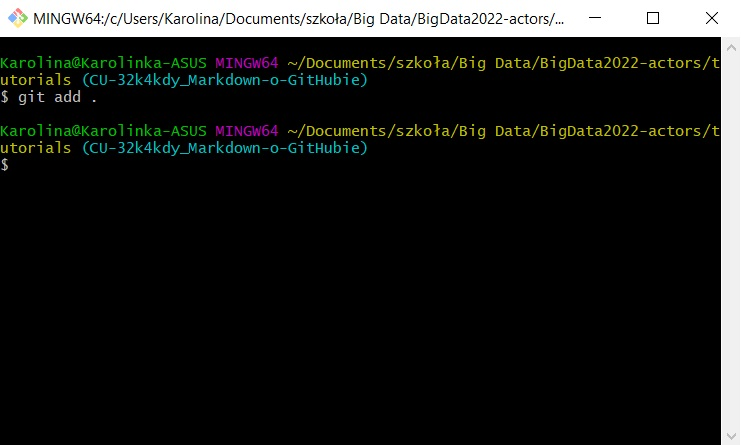
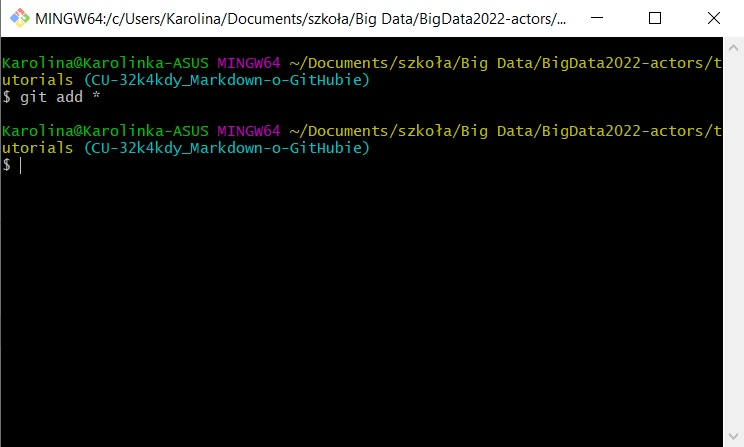
Dodanie tabelki z komendami gitowymi

diff --git a/tutorials/Jak korzystac z GitHub.md b/tutorials/Jak korzystac z GitHub.md
@@ -2,7 +2,7 @@
 
 ## Co to jest GitHub?
 
-GitHub to serwis pozwalający na przechowywanie projektów przy pełnej kontroli wersji każdego pliku. Przechowywane są na nim kody źródłowe plików, a wszystkie wprowadzone zmiany są zaznaczane w tym kodzie jako usunięcia lub dodania linii, a dodatkowo powinny być również opisane komentarzem autora zmian. Dzięki temu mamy pełną przejrzytość wprowadzanych zmian oraz w każdej chwili możemy wrócić do poprzedniej wersji pliku. Na jednym repozytorium może działać kilka osób, jednocześnie wprowadzając zmiany.
+GitHub to serwis pozwalający na przechowywanie projektów przy pełnej kontroli wersji każdego pliku. Przechowywane są na nim kody źródłowe plików, a wszystkie wprowadzone zmiany są zaznaczane w tym kodzie jako usunięcia lub dodania linii, a dodatkowo powinny być również opisane komentarzem autora zmian. Dzięki temu mamy pełną przejrzystość wprowadzanych zmian oraz w każdej chwili możemy wrócić do poprzedniej wersji pliku. Na jednym repozytorium może działać kilka osób, jednocześnie wprowadzając zmiany.
 
 ## Struktura projektu na GitHubie
 
@@ -18,86 +18,113 @@ Na początku każdego nowego zadania, którego wykonania się podjęliśmy, musi
 
 * Otwórz swoje zadanie na click upie,
 * Kliknij ikonkę GitHuba,
-![](images/clickup1.jpg)
+
+    ![](images/clickup1.jpg)
 * Kliknij "Create branch",
-![](images/clickup2.jpg)
+
+    ![](images/clickup2.jpg)
 * Wybierz repozytorium oraz branch, z którego ma wychodzić nowy branch (zazwyczaj będzie to main),
-![](images/clickup3.jpg)
+
+    ![](images/clickup3.jpg)
 * Kliknij "Create new branch".
-![](images/clickup4.jpg)
+
+    ![](images/clickup4.jpg)
 
 2. Stworzenie brancha przez GitHub:
 
 * Wejdź w zakładkę branches,
-![](images/tworzenie%20brancha1.jpg)
+
+    ![](images/tworzenie%20brancha1.jpg)
 * Kliknij "New branch:,
-![](images/tworzenie%20brancha2.jpg)
+    
+    ![](images/tworzenie%20brancha2.jpg)
 * Wpisz nazwę nowego brancha,
-![](images/tworzenie%20brancha3.jpg)
+
+    ![](images/tworzenie%20brancha3.jpg)
 * Kliknij "Create branch".
-![](images/tworzenie%20brancha4.jpg)
+
+    ![](images/tworzenie%20brancha4.jpg)
 
 Nowy branch został już utworzony na repozytorium i możesz teraz wprowadzać na nim swoje zmiany.
 
-Kolejnym zadaniem na GitHubie jest zapisanie dokonanych zmian, gdyż zmiany nie są zapisywane na bieżąco w trakie pracy, ale dopiero po zrobieniu ***commita***, czyli polecenia zapisania zmian na repozytorium. Tu znów mamy kilka opcji zapisywania zmian, w zależności od tego na czym pracujemy:
+Kolejnym zadaniem na GitHubie jest zapisanie dokonanych zmian, gdyż zmiany nie są zapisywane na bieżąco w trakie pracy, ale dopiero po zrobieniu ***commita***, czyli polecenia zapisania zmian na repozytorium zdalnym. Tu znów mamy kilka opcji zapisywania zmian, w zależności od tego na czym pracujemy:
 
 1. Zapisywanie zmian przez Google Colab:
 
 * Wejdź w zakładkę "Plik" i kliknij "Zapisz kopię w usłudze GitHub",
-![](images/Colab1.jpg)
+
+    ![](images/Colab1.jpg)
 * Wybierz repozytorium oraz gałąź (branch twojego zadania), na którym chcesz zapisać zmiany,
-![](images/Colab2.jpg)
+
+    ![](images/Colab2.jpg)
 * Wpisz króki komentarz na temat wprowadzonych zmian i kliknij "OK".
-![](images/Colab3.jpg)
+
+    ![](images/Colab3.jpg)
 
 2. Zapisywanie zmian przez terminal:
 
-    2.1 Aby móc wprowadzać zmiany przez terminal, najpierw musimy mieć lokalnie skopiowane repozytorium (robimy to tylko raz),
+    2.1. Aby móc wprowadzać zmiany przez terminal, najpierw musimy mieć lokalnie skopiowane repozytorium (robimy to tylko raz),
 * Utwórz plik, w którym chcesz mieć lokalnie skopiowane repozytorium (u mnie Big Data2),
 * Kliknij prawym przyciskiem myszy, a następnie "Git Bash Here" (do tego musisz mieć zainstalowanego Git Basha),
-![](images/terminal1.jpg)
+
+    ![](images/terminal1.jpg)
 * Poczekaj, aż terminal będzie gotowy do działania (pojawi się znaczek dolara),
-![](images/terminal2.jpg)
+
+    ![](images/terminal2.jpg)
 * W terminalu wpisz komendę (jeśli chcesz ją skopiować i wkleić, pamietaj, że skrót klawiszowy Ctrl + V nie działa w terminalu. Proponuję użyć prawego klawisza myszy, aby wkleić komendę) `git clone https://github.com/PiotrMaciejKowalski/BigData2022-actors.git` i kliknij Enter.
-![](images/terminal4.jpg)
 
-    2.2 Jeśli już masz sklonowane repozytorium lokalnie i chcesz wprowadzać kolejne zmiany, warto najpierw "odświeżyć" lokalne repozytorium, aby zmiany wprowadzane przez innych pojawiły się również u nas lokalnie:
-* W lokalizacji, gdzie masz lokalne repozytorium, kliknij prawym przyciskiem myszy, a następnie "Git BashHere", aby otworzyć terminal Git Bash,
-![](images/terminal5.jpg)
+    ![](images/terminal4.jpg)
+
+    2.2. Jeśli już masz sklonowane repozytorium lokalnie i chcesz wprowadzać kolejne zmiany, warto najpierw "odświeżyć" lokalne repozytorium, aby zmiany wprowadzane przez innych pojawiły się również u nas lokalnie:
+* W lokalizacji, gdzie masz lokalne repozytorium, kliknij prawym przyciskiem myszy, a następnie "Git Bash Here", aby otworzyć terminal Git Bash,
+
+    ![](images/terminal5.jpg)
 * Wpisz komendę `git pull`, aby ściągnąc aktualną wersję repozytorium i kliknij Enter.
-![](images/terminal6.jpg)
 
-    2.3 Aby wprowadzić zmiany w danym pliku, należy:
-* Otwórz terminal w lokalizacji, gdzie umieściłeś lokalne repozytorium (pokazane powyżej),
-* Wpisz komendę `git checkout nazwa_brancha_na_którym_chcemy_wprowadzić_zmiany` i kliknij Enter. Widzimy, że zmienia się wówczas lokalizacja, wktórej się znajdujemy:
-![](images/terminal7.jpg)
-* Wstaw plik, któy chcesz dołączyć, w odpowiedniej lokalizacji lub zmienić istniejący plik (ja dodałam plik "Jak korzystać z GitHub.md" do folderu tutorials),
-![](images/terminal8.jpg)
-* W terminalu wpisz komendę `git add nazwa_pliku_na_którym_chcemy_wprowadzić_zmiany` lub jeśli chcesz wprowadzić wszystkie wprowadzone zmiany w ramach twojego branch wpisz komendę `git add .` i kliknij Enter,
-* ![](images/terminal9.jpg)
-* Wpisz komendę `git commit -m "króki_tekst_opisujący_zapisywane_zmiany"` i kliknij Enter,
-![](images/terminal10.jpg)
+    ![](images/terminal6.jpg)
+
+    2.3. Aby wprowadzić zmiany w danym pliku, należy wykonać następujące kroki:
+* Otwórz terminal w lokalizacji, gdzie umieściłeś lokalne repozytorium (tak, jak pokazano powyżej),
+* Wpisz komendę `git checkout <nazwa_brancha_na_którym_chcemy_wprowadzić_zmiany>` i kliknij Enter. Widzimy, że zmienia się wówczas lokalizacja, w której się znajdujemy:
+
+    ![](images/terminal7.jpg)
+* Wstaw plik, który chcesz dołączyć, w odpowiedniej lokalizacji lub zmienić istniejący plik (ja dodałam plik "Jak korzystać z GitHub.md" do folderu tutorials),
+
+    ![](images/terminal8.jpg)
+* W terminalu wpisz komendę `git add <nazwa_pliku_na_którym_chcemy_wprowadzić_zmiany>` lub jeśli chcesz wprowadzić wszystkie wprowadzone zmiany w ramach twojego brancha, wpisz komendę `git add *` i kliknij Enter,
+
+    ![](images/terminal9.jpg)
+* Wpisz komendę `git commit -m "<króki_tekst_opisujący_zapisywane_zmiany>"` i kliknij Enter,
+
+    ![](images/terminal10.jpg)
 * Wpisz komendę `git push` i kliknij Enter,
-![](images/terminal11.jpg)
-* W celu sprawdzenia, czy coś jeszcze nie zostało zapisane na repozytorium, możemy wykonać komendę `git status`, która pokaże, które pliki czekają jeszcze na commit (u mnie widać dodane nowe 3 pliki).
-![](images/terminal12.jpg)
+
+    ![](images/terminal11.jpg)
+* W celu sprawdzenia, czy coś jeszcze nie zostało zapisane na repozytorium zdalnym, możemy wykonać komendę `git status`, która pokaże, które pliki czekają jeszcze na commit (u mnie widać dodane nowe 3 pliki).
+
+    ![](images/terminal12.jpg)
 
 3. Zapisanie zmian przez Visual Studio Code:
 
-* Sklonuj repozytorium lokalnie tak, jak zostalo to pokazane w punkcie 2.1,
-* Jeśli masz już sklonowane repozytorium, przed wprowadzeniem zmian wykonaj `git pull` tak, jak zostało to pokazane w punkcie 2.2,
-* Przejdź do swojego brancha za pomocą komendy `git checkout` tak, jak zostało to pokazane w punkcie 2.3,
+* Sklonuj repozytorium lokalnie tak, jak zostało to pokazane w punkcie 2.1.,
+* Jeśli masz już sklonowane repozytorium, przed wprowadzeniem zmian wykonaj `git pull` tak, jak zostało to pokazane w punkcie 2.2.,
+* Przejdź do swojego brancha za pomocą komendy `git checkout` tak, jak zostało to pokazane w punkcie 2.3.,
 * Otwórz swój plik w Visual Studio Code,
 * Zapisz plik w odpowiednim folderze na repozytorium lokalnym,
-![](images/visual1.jpg)
+
+    ![](images/visual1.jpg)
 * Wejdź w zakładkę "Source Control"
-![](images/visual2.jpg)
+
+    ![](images/visual2.jpg)
 * Dodaj pliki, w których chciałbyś zapisać zmiany,
-![](images/visual3.jpg)
+
+    ![](images/visual3.jpg)
 * Dodaj komentarz opisujący zmiany, które chcesz zapisać,
-![](images/visual4.jpg)
-* Kliknij "Commit & Push", aby zapisać zmiany na repozytorium.
-![](images/visual5.jpg)
+
+    ![](images/visual4.jpg)
+* Kliknij "Commit & Push", aby zapisać zmiany na repozytorium zdalnym.
+
+    ![](images/visual5.jpg)
 
 Jeśli wszystkie zmiany dotyczące danego zadania zostały już zapisane na repozytorium, wówczas możemy stworzyć ***pull request***, czyli prośbę o ***merge*** wszystkich zmian z naszego brancha do main. Zanim taki request zostanie zatwierdzony, dodany/zmieniony kod musi przejść ***review***, podczas którego reviewer może mieć pewne sugestie do kodu, komunikując je przez komentarze.
 
@@ -106,22 +133,58 @@ Jak założyć pull request, kiedy skończyliśmy pracę nad danym zadaniem? Tu 
 1. Zakładanie pull requesta przez pojawiający się przycisk "Compare & pull request":
 
 * Kliknij przycisk "Compare & pull request" (pojawia się on po zidentyfikowaniu zmian nie wprowadzonych na main),
-![](images/pull_request5.jpg)
+
+    ![](images/pull_request5.jpg)
 * Dodaj komentarz jeśli chcesz i kliknij "Create pull request",
-![](images/pull_request6.jpg)
+
+    ![](images/pull_request6.jpg)
 * Przypisz osobę, która ma zrobić review w polu "Assignees".
-![](images/pull_request7.jpg)
+
+    ![](images/pull_request7.jpg)
 
 2. Zakładanie pull requesta przez zakładkę "Pull requests":
 
 * Wejdź w zakładkę "Pull requests",
-![](images/pull_request1.jpg)
-* Kliknij "New pull request",
-![](images/pull_request2.jpg)
-* Wybierz z jakiego brancha do jakiego ma być merge (zazwyczaj będziemy merge'ować do main),
-![](images/pull_request3.jpg)
-* Kliknij "Create pull request".
-![](images/pull_request4.jpg)
-* Przypisz osobę, która ma zrobić review w polu "Assignees".
-![](images/pull_request7.jpg)
 
+    ![](images/pull_request1.jpg)
+* Kliknij "New pull request",
+
+    ![](images/pull_request2.jpg)
+* Wybierz, z jakiego brancha do jakiego ma być merge (zazwyczaj będziemy merge'ować do main),
+
+    ![](images/pull_request3.jpg)
+* Kliknij "Create pull request".
+
+    ![](images/pull_request4.jpg)
+* Przypisz osobę, która ma zrobić review w polu "Assignees".
+
+    ![](images/pull_request7.jpg)
+
+## Przydatne komendy gitowe
+
+| Komenda | Efekt|
+| ----- | ----- |
+| git status | Wylistowanie plików zmienionych i wymagających dodania i zcommitowania do repozytorium |
+| git init | Stworzenie nowego pustego repozytorium |
+| git clone /path/to /repository | Skopiowanie repozytorium lokalnie |
+| git add <filename> | Dodanie jednego lub wielu plików do stage'u |
+| git add * | Dodanie wszystkich zmienionych plików do stage'u |
+| git commit -m "Commit message" | Dodanie zmian plików będących w stage'u do lokalnego repozytorium |
+| git commit -a | Dodanie zmian wszystkich zmienionych plików do lokalnego repozytorium |
+| git push | Dodanie zmian do brancha do zdalnego repozytorium |
+| git checkout -b <branch_name> | Utworzenie nowego brancha na lokalnym repozytorium i przełączenie się na niego |
+| git checkout <branch_name> | Przełączenie się na dany branch |
+| git branch | Wylistowanie wszystkich branchy w danym repozytorium i wyświetlenie, w którym branchu aktualnie jesteśmy |
+| git branch -d <branch_name> | Usunięcie brancha na lokalnym repozytorium |
+| git push origin <branch_name> | Dodanie utworzonego lokalnie brancha do zdalnego repozytorium |
+| git push --all origin | Dodanie wszystkich lokalnych branchy do zdalnego repozytorium |
+| git push origin <branch_name> | Usunięcie danego brancha na zdalnym repozytorium |
+| git pull | Załadowanie i złączenie plików ze zdalnego repozytorium |
+| git merge <branch_name> | Złączenie innego brancha z aktywnym branchem |
+| git diff | Wylistowanie wszystkich problemów ze złączeniem branchy |
+| git fetch | Podaje informacje na temat zmian, które są wprowadzone na zdalnym repozytorium, a nie ma ich na lokalnym repozytorium |
+| git restore <file_name> | Cofanie nie zacommitowanych zmian na danym pliku na repozytorium lokalnym |
+| git checkout -- <file_name> | Cofnięcie nie zacommitowanych zmian w danym pliku |
+
+Dokumentację wszystkich gitowych komend można znaleźć pod poniższym linkiem:
+https://git-scm.com/docs
